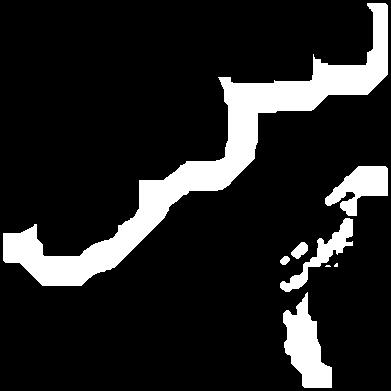
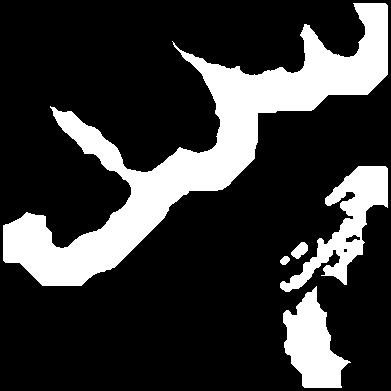
changed kernel shape for dilation

diff --git a/scripts/img_process.py b/scripts/img_process.py
@@ -31,7 +31,7 @@ def image_process(
 
         pixel_distance = int(round(land_dilation_distance_km * img_size[0] / image_width_km))
         
-        kernel = np.ones((2 * pixel_distance + 1, 2 * pixel_distance + 1), np.uint8)
+        kernel = cv2.getStructuringElement(cv2.MORPH_ELLIPSE, (pixel_distance, pixel_distance))
 
         land_mask_img = cv2.dilate(land_mask_img, kernel)
 
